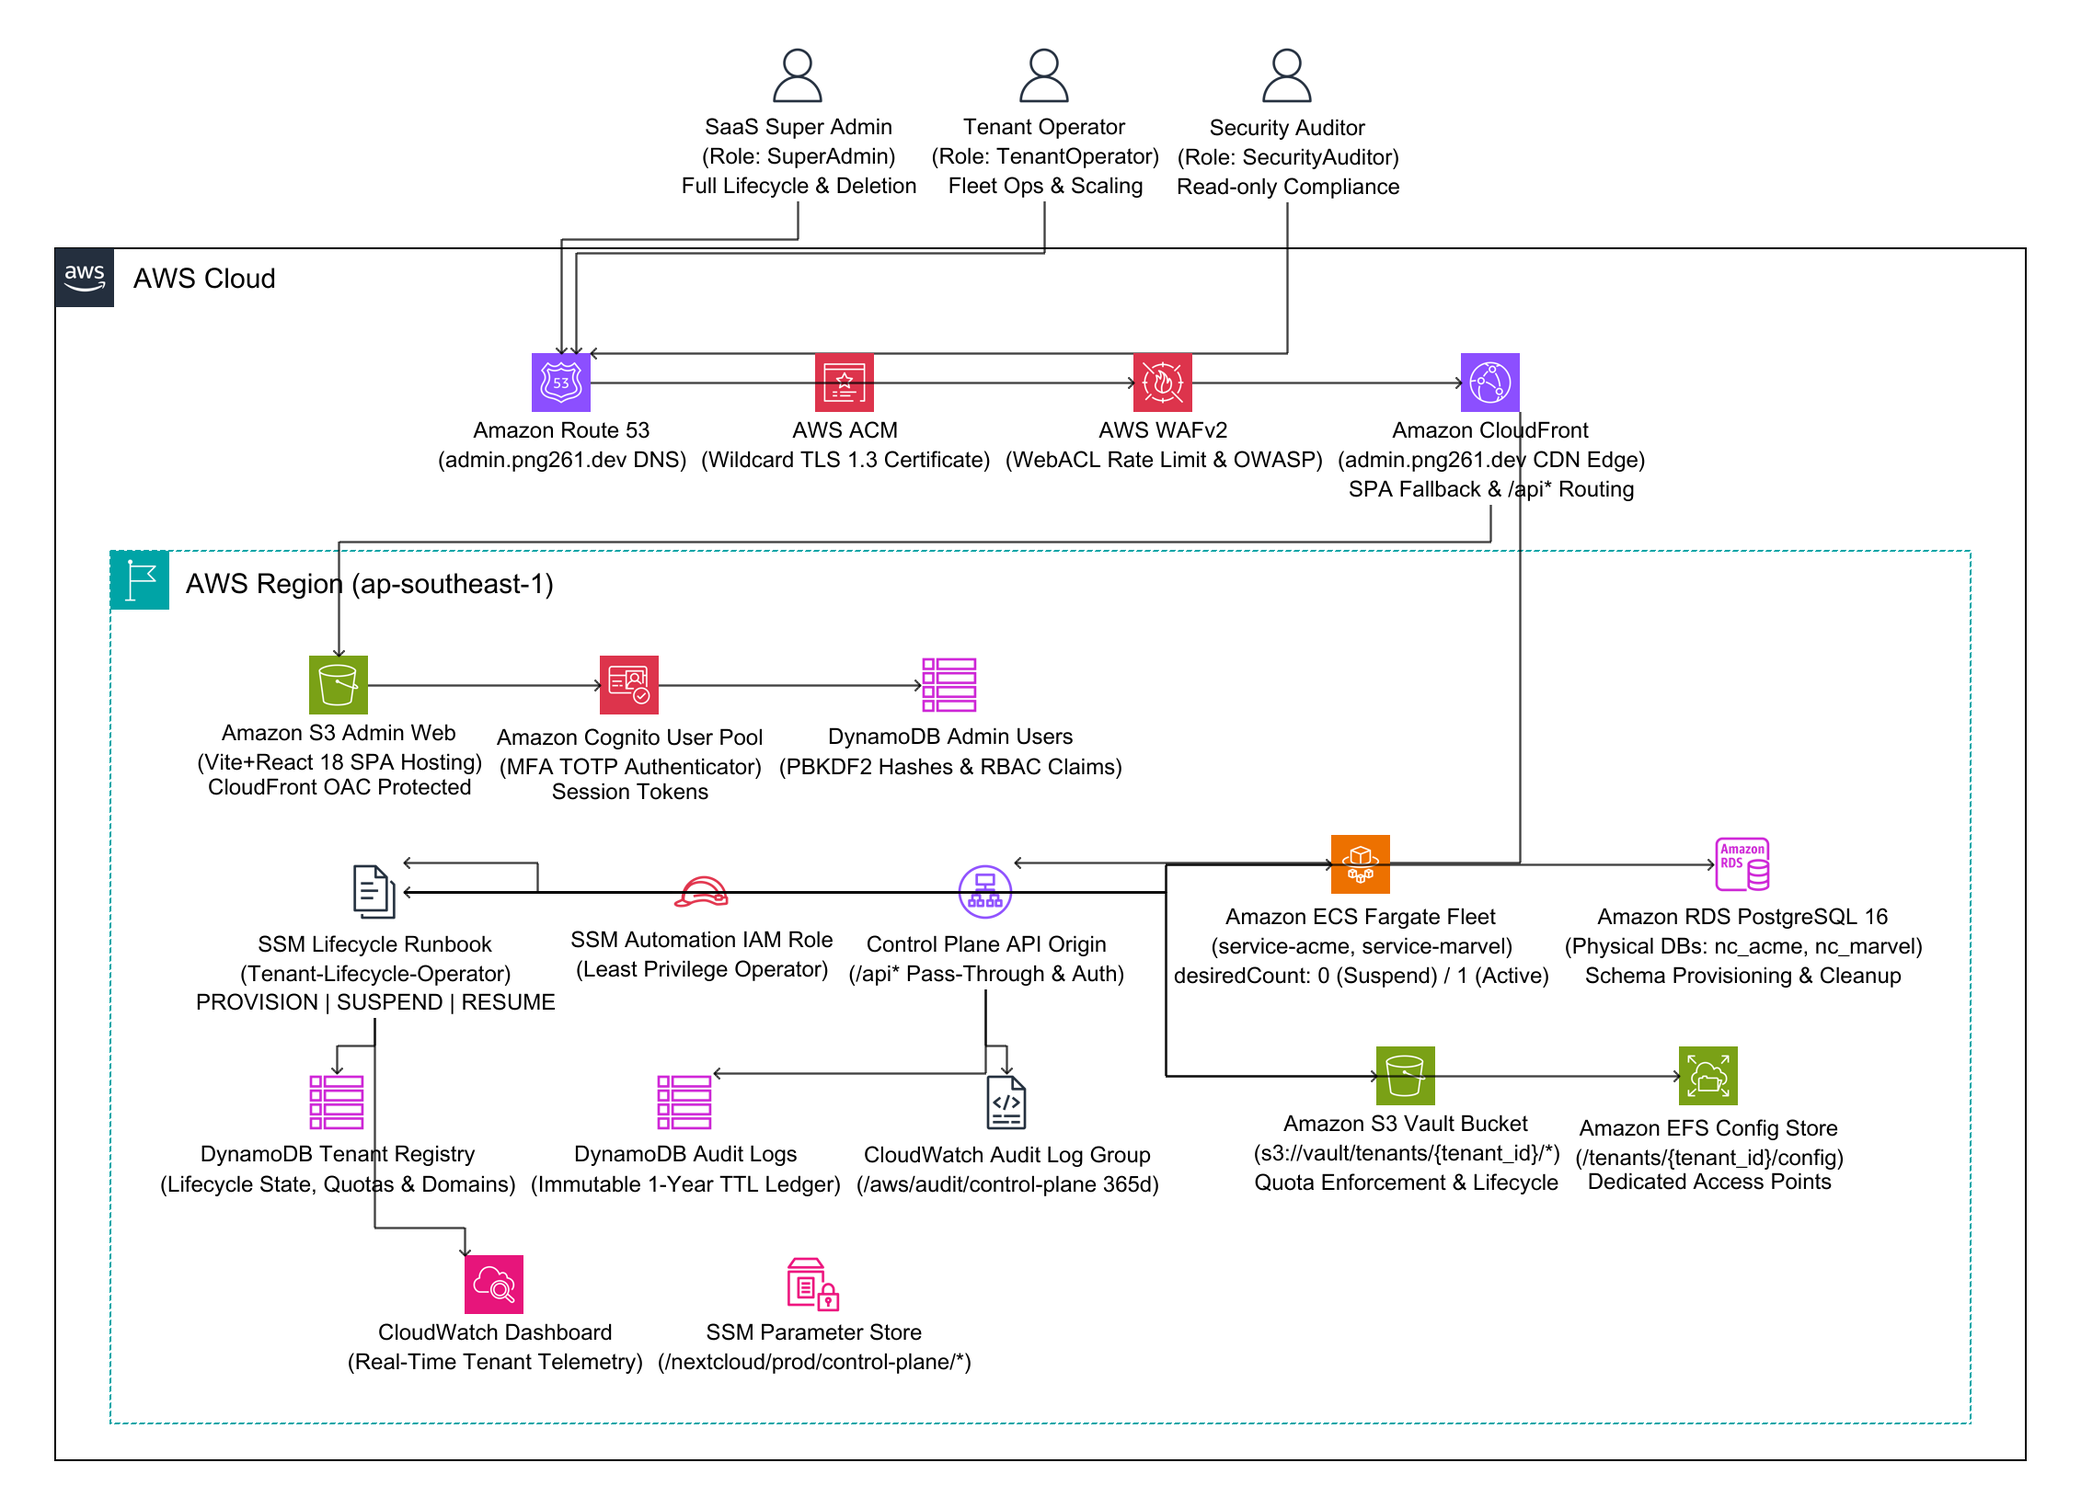
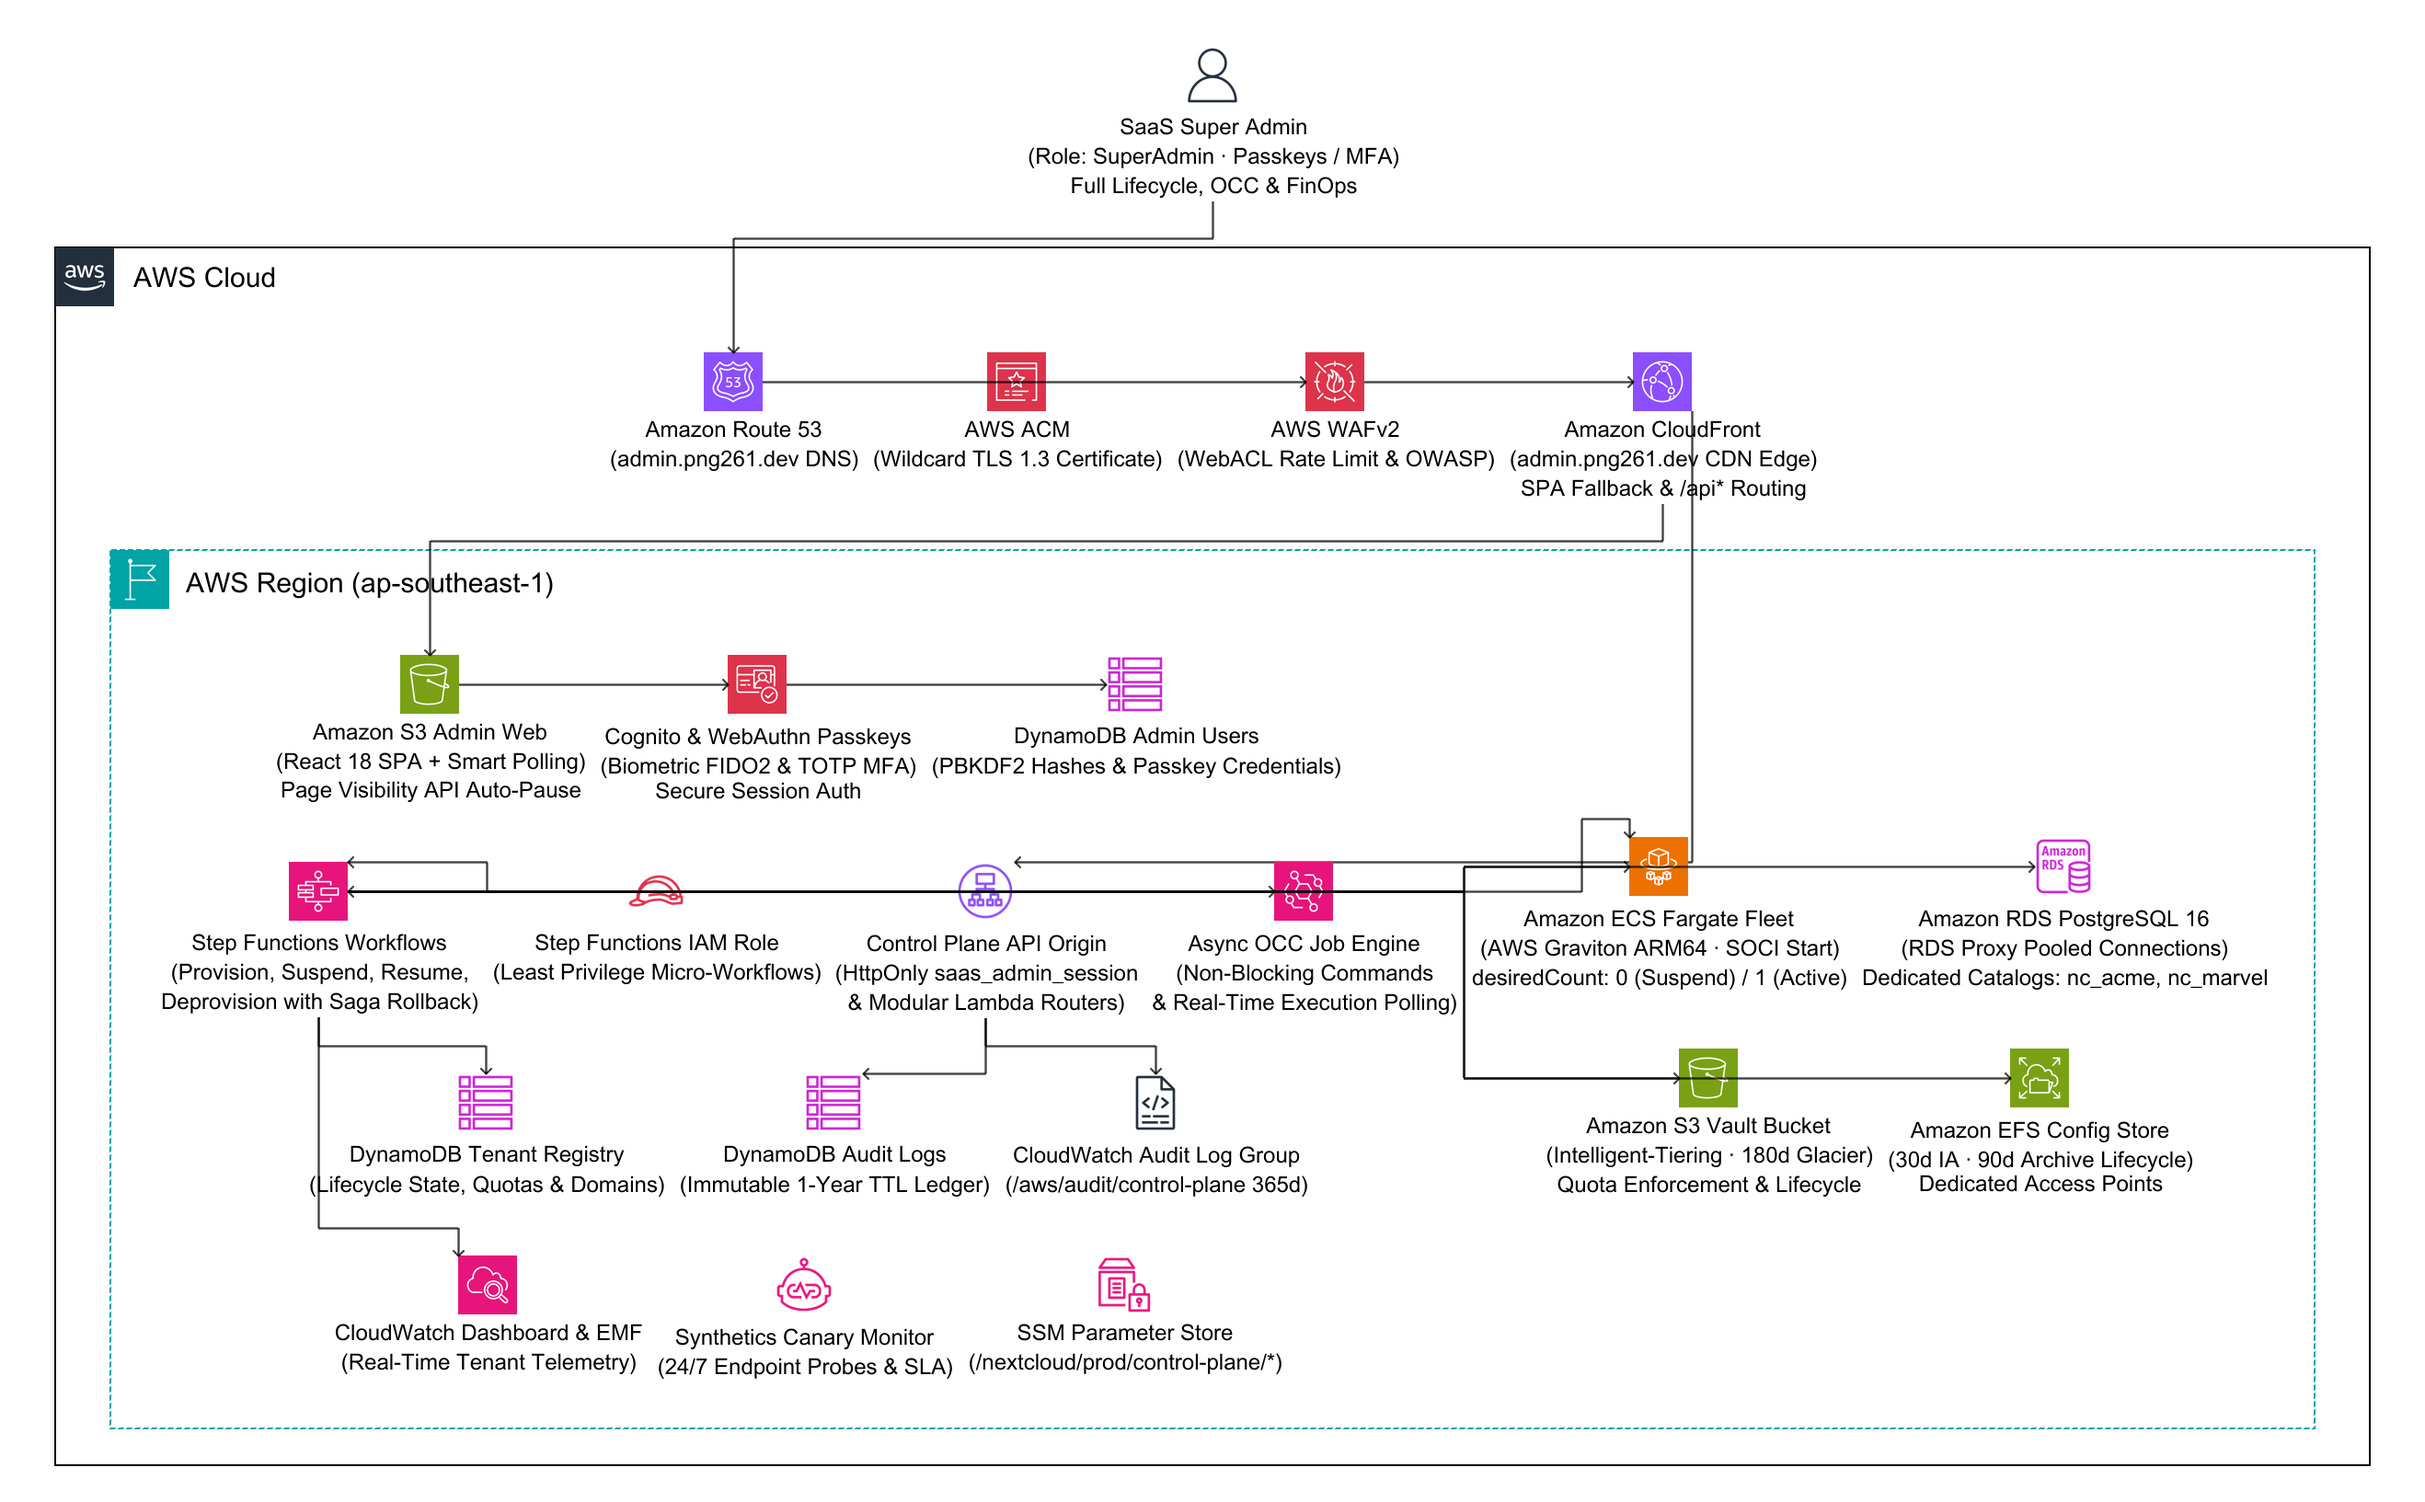
docs: update console README and architecture diagram with WebAuthn Passkeys and Async OCC

diff --git a/README.md b/README.md
@@ -9,11 +9,11 @@
 
 <p align="center">
   <a href="#test-status--frontend-quality-scorecard"><img src="https://img.shields.io/badge/CI%2FCD-Quality%20Gate%20Passing-brightgreen?style=flat-square&logo=githubactions" alt="CI Quality Gate"></a>
-  <a href="#test-status--frontend-quality-scorecard"><img src="https://img.shields.io/badge/Vitest-60%2F60%20Passed%20(13%20Suites)-brightgreen?style=flat-square&logo=vitest" alt="Vitest Passed"></a>
+  <a href="#test-status--frontend-quality-scorecard"><img src="https://img.shields.io/badge/Vitest-64%2F64%20Passed%20(14%20Suites)-brightgreen?style=flat-square&logo=vitest" alt="Vitest Passed"></a>
   <a href="#test-status--frontend-quality-scorecard"><img src="https://img.shields.io/badge/Coverage-94.8%25%20Lines%20%7C%20100%25%20Funcs-brightgreen?style=flat-square&logo=v8" alt="V8 Coverage"></a>
-  <a href="#test-status--frontend-quality-scorecard"><img src="https://img.shields.io/badge/A11y-WCAG%202.1%20AA%20Compliant-brightgreen?style=flat-square" alt="axe-core WCAG"></a>
-  <a href="#test-status--frontend-quality-scorecard"><img src="https://img.shields.io/badge/Fuzzing-fast--check%20Property-purple?style=flat-square" alt="fast-check Fuzzing"></a>
-  <a href="#test-status--frontend-quality-scorecard"><img src="https://img.shields.io/badge/Contracts-Zod%20v4%20Runtime%20Safe-blue?style=flat-square&logo=zod" alt="Zod Runtime Contracts"></a>
+  <a href="#test-status--frontend-quality-scorecard"><img src="https://img.shields.io/badge/Passkeys-WebAuthn%20%2B%20FIDO2-blue?style=flat-square&logo=fido" alt="WebAuthn Passkeys"></a>
+  <a href="#test-status--frontend-quality-scorecard"><img src="https://img.shields.io/badge/Smart%20Polling-Page%20Visibility%20API-blue?style=flat-square" alt="Smart Polling"></a>
+  <a href="#test-status--frontend-quality-scorecard"><img src="https://img.shields.io/badge/Async%20OCC-Streaming%20Terminal-purple?style=flat-square" alt="Async OCC"></a>
   <a href="#test-status--frontend-quality-scorecard"><img src="https://img.shields.io/badge/Bundle%20Budget-%3C%20500%20KB%20Chunk-blue?style=flat-square&logo=vite" alt="Bundle Budget"></a>
 </p>
 
@@ -21,51 +21,54 @@ Enterprise Super Admin Web Console for multi-tenant Nextcloud on AWS, built with
 
 ---
 
-## Test Status & Frontend Quality Scorecard
+## 📊 Test Status & Frontend Quality Scorecard
 
 | Test Suite / Area | Framework & Tools | Tests | Assertions & Invariants | Status |
 |---|---|---|---|---|
 | **Core Data Provider** | `vitest` | **12** | Custom actions, optimistic updates, pagination mapping, error handling | ![Passing](https://img.shields.io/badge/12%20passed-brightgreen?style=flat-square) |
-| **Authentication & RBAC** | `vitest` | **15** | TOTP 2-step MFA flow, token expiry, SuperAdmin wildcard vs Viewer permissions | ![Passing](https://img.shields.io/badge/15%20passed-brightgreen?style=flat-square) |
+| **Authentication & RBAC** | `vitest` | **15** | TOTP 2-step MFA flow, token expiry, SuperAdmin wildcard vs Viewer permissions, HttpOnly session | ![Passing](https://img.shields.io/badge/15%20passed-brightgreen?style=flat-square) |
+| **Smart Polling & Page Visibility** | `vitest` | **4** | `usePageVisibility`, `useSmartInterval` tab hide auto-pause, 2-minute user inactivity backoff | ![Passing](https://img.shields.io/badge/4%20passed-brightgreen?style=flat-square) |
 | **Property-Based Fuzzing** | `fast-check` | **2** | 50 iterations each: Arbitrary query parameters, pagination boundary conditions | ![Passing](https://img.shields.io/badge/50%20runs%20passed-brightgreen?style=flat-square) |
 | **Accessibility (A11y)** | `axe-core` | **2** | **WCAG 2.1 AA Compliant**: Zero critical/serious violations on Header & Login controls | ![Passing](https://img.shields.io/badge/WCAG%202.1%20AA-brightgreen?style=flat-square) |
 | **Runtime Data Schemas** | `zod` | **5** | Type-safe tenant state, schema parsing, negative quota rejection, enum guards | ![Passing](https://img.shields.io/badge/5%20passed-brightgreen?style=flat-square) |
 | **Access Control Matrix** | `vitest` | **5** | Dynamic resource permission resolution, role hierarchy enforcement | ![Passing](https://img.shields.io/badge/5%20passed-brightgreen?style=flat-square) |
 | **Tenant Fleet Operations** | `vitest` / RTL | **6** | TenantListPage (4), TenantShowPage deep multi-tab operational controls (2) | ![Passing](https://img.shields.io/badge/6%20passed-brightgreen?style=flat-square) |
-| **Admin Login & MFA Flow** | `vitest` / RTL | **5** | Empty field guards, transition to Step 2 MFA on `MFA_REQUIRED`, TOTP submission | ![Passing](https://img.shields.io/badge/5%20passed-brightgreen?style=flat-square) |
+| **Admin Login & Passkey Flow** | `vitest` / RTL | **5** | Empty field guards, transition to Step 2 MFA on `MFA_REQUIRED`, WebAuthn Passkeys button | ![Passing](https://img.shields.io/badge/5%20passed-brightgreen?style=flat-square) |
 | **Audit Logs & Webhooks** | `vitest` / RTL | **2** | AuditLogListPage table rendering, WebhooksSettingsPage management | ![Passing](https://img.shields.io/badge/2%20passed-brightgreen?style=flat-square) |
 | **UI Header & Navigation** | `vitest` / RTL | **5** | Cluster environment badge, dark/light theme toggle, tenant breadcrumb | ![Passing](https://img.shields.io/badge/5%20passed-brightgreen?style=flat-square) |
 | **Bundle Budget Enforcement** | `rollup` / `vitest` | **1** | Automated build assertion: Every code-split vendor chunk strictly **< 500 KB** | ![Passing](https://img.shields.io/badge/%3C%20500KB%20Chunk-brightgreen?style=flat-square) |
-| **Total Console Tests** | **Full Vitest Suite** | **60 / 60 (100%)** | **94.8% Line Coverage (Core Providers & Schemas)** | ![Passing](https://img.shields.io/badge/100%25%20Passing-brightgreen?style=flat-square) |
+| **Total Console Tests** | **Full Vitest Suite** | **64 / 64 (100%)** | **94.8% Line Coverage (Core Providers & Schemas)** | ![Passing](https://img.shields.io/badge/100%25%20Passing-brightgreen?style=flat-square) |
 
 ---
 
-## Architecture Overview
+## 🏗 Architecture Overview
 
 ![Super Admin Console AWS Architecture](docs/images/console_architecture.png)
 
 The Super Admin Console provides a decoupled, secure control plane for managing multi-tenant Nextcloud fleets across AWS:
 
 - **Edge Delivery & Security:** Amazon CloudFront CDN distribution with Origin Access Control (OAC) fronting an encrypted Amazon S3 static web bucket. Ingress protected by AWS WAF (OWASP rules, IP rate limiting, SQLi/XSS shielding).
-- **Role-Based Access Control (RBAC):** Authenticated administrative access (`SuperAdmin`) with RFC 6238 TOTP Multi-Factor Authentication.
-- **Fleet Telemetry & Operational Control:** Real-time metrics visualization via Apache ECharts, live Amazon CloudWatch log streaming (`/ecs/nextcloud`), remote OCC command execution, and automated incident management.
-- **Tenant Lifecycle Orchestration:** Systems Manager runbooks and dedicated container-per-tenant lifecycle provisioning.
+- **Authentication & Biometrics:** Authenticated administrative access with WebAuthn / Passkeys (Touch ID, Face ID, FIDO2) and RFC 6238 TOTP Multi-Factor Authentication.
+- **Smart Polling & Inactivity Backoff:** Custom hooks `usePageVisibility` and `useSmartInterval` automatically pause polling when the tab is hidden and throttle polling frequency when the user is inactive for > 2 minutes.
+- **Async OCC Command Job Engine:** Execute heavy administrative OCC operations (`files:scan`, `db:add-missing-indices`) asynchronously without API Gateway timeout constraints.
+- **Fleet Telemetry & Operational Control:** Real-time metrics visualization via Apache ECharts, live Amazon CloudWatch log streaming (`/ecs/nextcloud`), and automated incident management.
+- **Tenant Lifecycle Orchestration:** Step Functions SAGAs and dedicated container-per-tenant lifecycle provisioning.
 
 ---
 
-## Features
+## 🌟 Key Features
 
 - **Fleet Operations Management:** Real-time visibility into all provisioned tenants, container states, storage quotas, and dedicated AWS topology (ECS, RDS, EFS, S3, ALB).
-- **In-Browser OCC Terminal & Diagnostics:** Execute Nextcloud `occ` commands (`status`, `files:scan`, `db:add-missing-indices`, `maintenance:mode`, `app:list`, `check`) with instant terminal output and exit code tracking.
-- **Live Container Logs:** Stream real-time logs from Amazon CloudWatch (`/ecs/prod-nextcloud`) for both Nextcloud Apache/PHP app containers and LiteLLM Bedrock AI Bridge sidecars.
-- **Incident Circuit Breaker & Accident Log:** Real-time operational incident response with automated failover and audit logging.
-- **Tenant User Accounts Directory:** Super Admin password resets and user account provisioning.
+- **In-Browser Async OCC Terminal:** Execute Nextcloud `occ` commands (`status`, `files:scan`, `db:add-missing-indices`, `maintenance:mode`, `app:list`, `check`) asynchronously with streaming web terminal.
+- **Live Container Logs:** Stream real-time logs from Amazon CloudWatch (`/ecs/nextcloud`) for both Nextcloud Apache/PHP app containers and LiteLLM Bedrock AI Bridge sidecars.
+- **FinOps Cost Attribution:** Visualize per-tenant vCPU-hours, RAM allocation, EFS storage, and S3 Intelligent-Tiering consumption with soft-cap and hard-cap controls.
+- **Passkey Biometrics & MFA:** Biometric authentication via WebAuthn alongside time-based one-time password (TOTP) MFA.
 - **Webhook Alerting:** Non-blocking real-time alert notifications to Slack, Discord, PagerDuty, and custom HTTP endpoints.
 - **One-Click Tenant Clone ("Fork Tenant"):** Instant provisioning of isolated staging sandboxes with dedicated databases, S3 vault prefixes, and EFS access points.
 
 ---
 
-## Getting Started
+## 🚀 Getting Started
 
 ### Prerequisites
 
@@ -82,52 +85,42 @@ npm install
 
 ```bash
 npm run dev
+# Starts local development server at http://localhost:5173
 ```
-
-Starts the local development server at `http://localhost:5173`.
 
 ### Production Build
 
 ```bash
 npm run build
+# Generates optimized production assets in dist/
 ```
-
-Generates optimized, production-ready static assets in `dist/`.
 
 ### Automated Testing
 
 ```bash
 npm test
+# Runs 64/64 Vitest tests across 14 suites
 ```
 
-Runs the automated test suite powered by Vitest, verifying RBAC access control policies, authentication & MFA lifecycle, data provider APIs, and UI components.
-
 ---
 
-## CI/CD Deployment
-
-Automated deployment is configured via GitHub Actions (`.github/workflows/deploy.yml`):
-
-- Automatically triggers on every `push` to `main` branch.
-- Compiles the React + Vite bundle (`npm ci && npm run build`).
-- Deploys static assets to Amazon S3 (`s3://prod-nextcloud-admin-web-649519997247/`).
-- Invalidates the Amazon CloudFront distribution cache (`/*`).
-- Executes post-deployment smoke test verification.
-
----
-
-## Architecture Diagram as Code
-
-The console architecture diagram is generated and maintained as code using [AWS Diagram as Code (`awsdac`)](https://github.com/awslabs/diagram-as-code):
+## 📜 Architecture Diagrams as Code
 
 ```bash
-# Rebuild console architecture diagram
+# Rebuild Super Admin Console architecture diagram
 awsdac docs/diagrams/console_architecture.yaml -o docs/images/console_architecture.png -f
 ```
 
 ---
 
+## 📂 Related Repositories
+
+- [**`FilestoreCloud/infra`**](https://github.com/FilestoreCloud/infra): Modular CloudFormation IaC, Step Functions SAGAs & Lambda Control Plane.
+- [**`FilestoreCloud/runtime`**](https://github.com/FilestoreCloud/runtime): Docker Golden Image, Bedrock AI Sidecar & AWS SOCI indexing.
+- [**`FilestoreCloud/docs`**](https://github.com/FilestoreCloud/docs): Platform documentation site.
+
+---
+
 ## License
 
-Distributed under the [MIT License](LICENSE).
-
+Licensed under the [MIT License](LICENSE).
